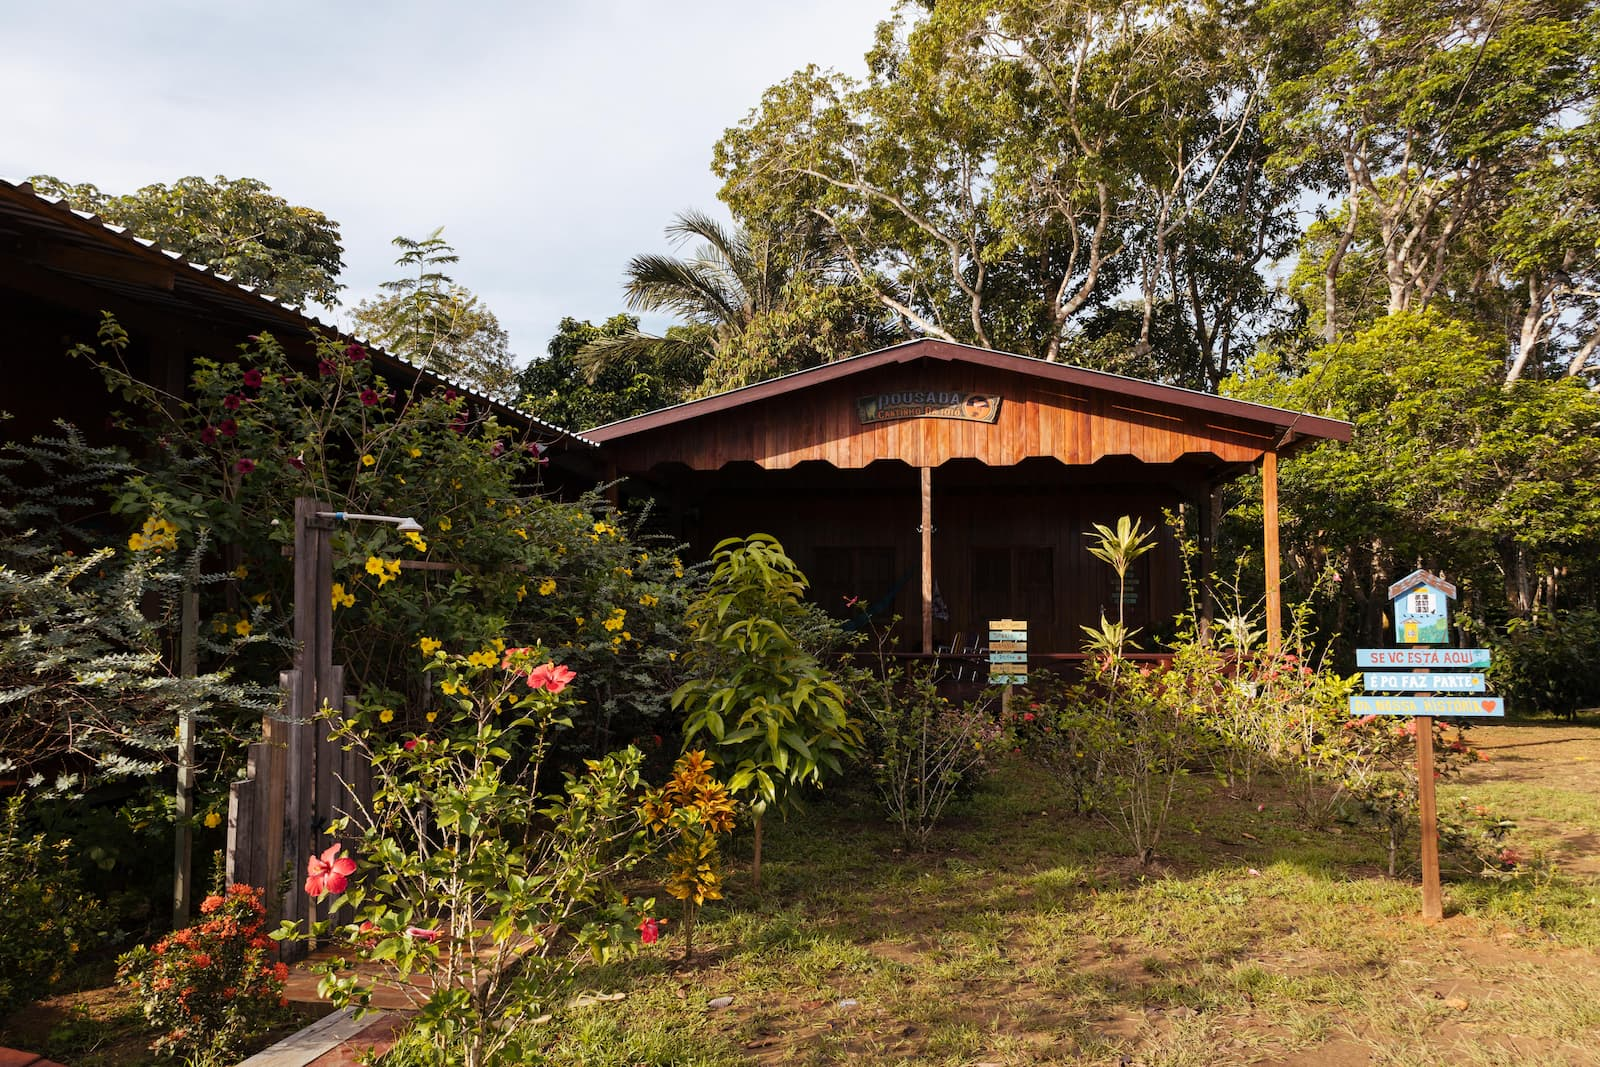
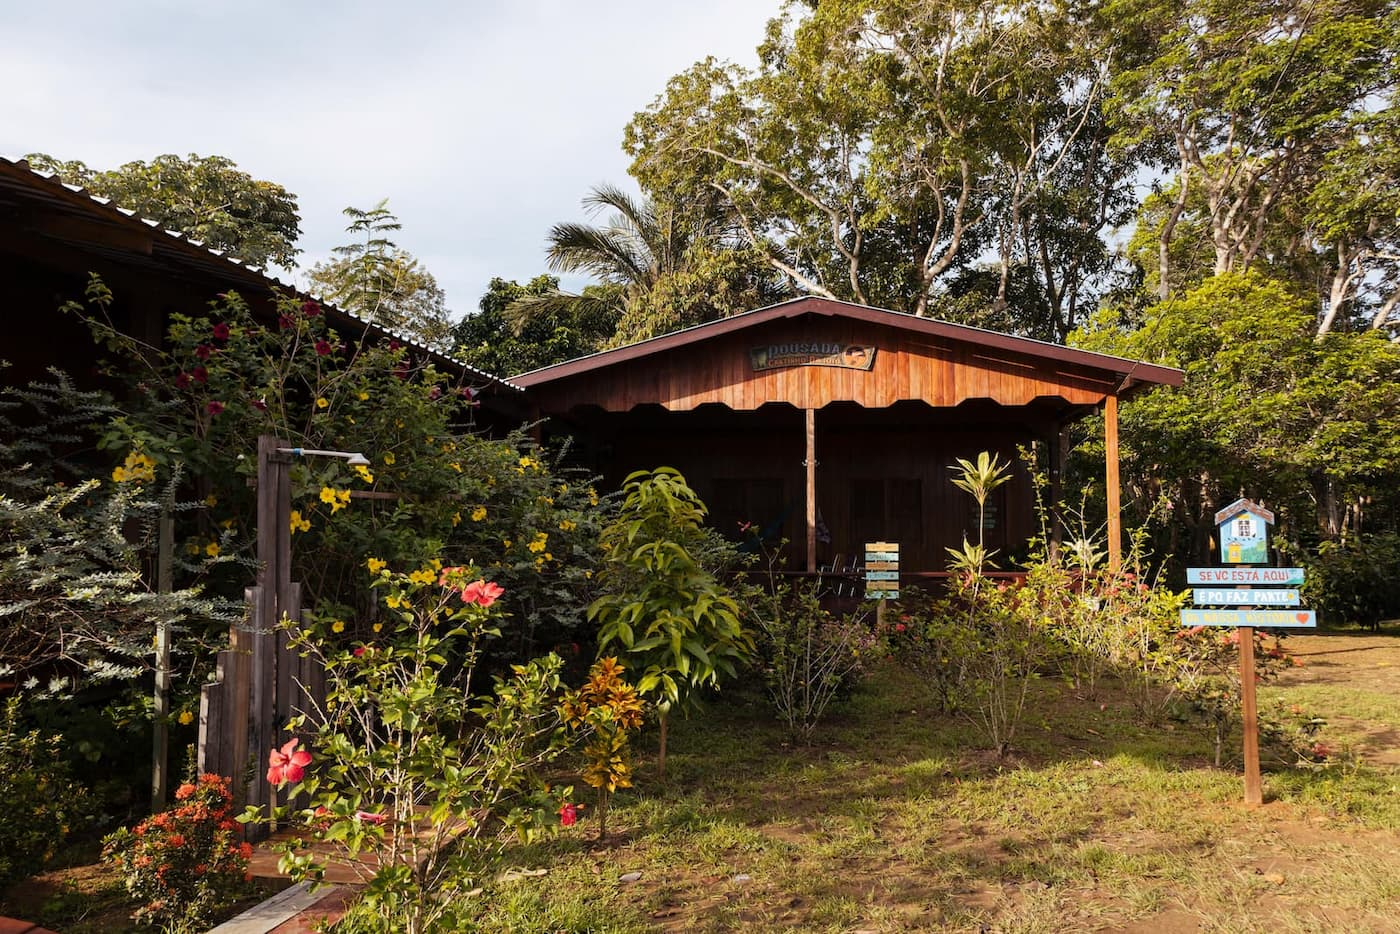
Adicionando página 404, meta tags (canonical e Open Graph) e imagem de prévia

diff --git a/404.html b/404.html
@@ -1,0 +1,122 @@
+<!DOCTYPE html>
+<html lang="pt-BR">
+<head>
+  <meta charset="UTF-8">
+  <meta name="viewport" content="width=device-width, initial-scale=1.0">
+  <title>Página não encontrada | Pousada Cantinho da Ioiô</title>
+  <meta name="robots" content="noindex">
+  <link rel="preconnect" href="https://fonts.googleapis.com">
+  <link href="https://fonts.googleapis.com/css2?family=Fraunces:wght@500;600&family=Inter:wght@400;500;600&display=swap" rel="stylesheet">
+  <link rel="icon" type="image/png" href="/assets/icone/icone.png">
+  <link rel="stylesheet" href="/css/base.css">
+  <link rel="stylesheet" href="/css/header.css">
+  <link rel="stylesheet" href="/css/paginas.css">
+  <link rel="stylesheet" href="/css/footer.css">
+</head>
+<body>
+
+  <header class="header">
+    <div class="container header__inner">
+      <a href="index.html" class="header__logo">
+        <img class="header__logo-mark" src="assets/icone/icone.png" alt="Logo Pousada Cantinho da Ioiô">
+        Cantinho da Ioiô
+      </a>
+
+      <nav class="header__nav">
+        <ul class="header__links">
+          <li><a href="index.html">Home</a></li>
+          <li><a href="acomodacoes.html">Acomodações</a></li>
+          <li><a href="passeios.html">Passeios</a></li>
+          <li><a href="localizacao.html">Localização</a></li>
+          <li><a href="sobre.html">Sobre</a></li>
+        </ul>
+        <a href="reserva.html" class="header__cta">Reservar agora</a>
+      </nav>
+
+      <button class="header__burger" aria-label="Abrir menu">
+        <span></span><span></span><span></span>
+      </button>
+    </div>
+  </header>
+
+  <!-- Painel mobile -->
+  <nav class="header__mobile-panel">
+    <a href="index.html">Home</a>
+    <a href="acomodacoes.html">Acomodações</a>
+    <a href="passeios.html">Passeios</a>
+    <a href="localizacao.html">Localização</a>
+    <a href="sobre.html">Sobre</a>
+    <a href="reserva.html" class="header__cta">Reservar agora</a>
+  </nav>
+
+  <section class="pagina-banner">
+    <div class="container">
+      <p class="pagina-banner__eyebrow">Erro 404</p>
+      <h1 class="pagina-banner__titulo">Essa página não existe</h1>
+      <p class="pagina-banner__subtitulo">O endereço pode ter sido digitado errado ou a página foi movida. Volte ao início ou veja nossas acomodações.</p>
+      <p style="margin-top: 24px; display: flex; gap: 12px; flex-wrap: wrap;">
+        <a href="/" class="btn btn--primario">Ir para o início</a>
+        <a href="/acomodacoes" class="cta-final__link">Ver acomodações</a>
+      </p>
+    </div>
+  </section>
+
+  <footer class="footer">
+    <div class="container">
+      <div class="footer__grade">
+
+        <div>
+          <a href="index.html" class="footer__marca">
+            <span class="footer__marca-mark">CI</span>
+            Cantinho da Ioiô
+          </a>
+          <p class="footer__texto">Uma pousada acolhedora na comunidade Saracá, às margens do Rio Negro, no coração da Amazônia.</p>
+          <div class="footer__redes">
+            <a href="https://www.instagram.com/pousadacantinhodaioio" class="footer__rede" target="_blank" rel="noopener" aria-label="Instagram da pousada">
+              <svg viewBox="0 0 24 24" fill="none" stroke="currentColor" stroke-width="2" stroke-linecap="round" stroke-linejoin="round"><rect x="2" y="2" width="20" height="20" rx="5"/><path d="M16 11.37A4 4 0 1 1 12.63 8 4 4 0 0 1 16 11.37z"/><line x1="17.5" y1="6.5" x2="17.51" y2="6.5"/></svg>
+            </a>
+            <a href="https://wa.me/5592981310470" class="footer__rede" target="_blank" rel="noopener" aria-label="WhatsApp da pousada">
+              <svg viewBox="0 0 24 24" fill="none" stroke="currentColor" stroke-width="2" stroke-linecap="round" stroke-linejoin="round"><path d="M21 11.5a8.38 8.38 0 0 1-.9 3.8 8.5 8.5 0 0 1-7.6 4.7 8.38 8.38 0 0 1-3.8-.9L3 21l1.9-5.7a8.38 8.38 0 0 1-.9-3.8 8.5 8.5 0 0 1 4.7-7.6 8.38 8.38 0 0 1 3.8-.9h.5a8.48 8.48 0 0 1 8 8v.5z"/></svg>
+            </a>
+          </div>
+        </div>
+
+        <div>
+          <p class="footer__coluna-titulo">Navegação</p>
+          <ul class="footer__links">
+            <li><a href="index.html">Home</a></li>
+            <li><a href="acomodacoes.html">Acomodações</a></li>
+          <li><a href="passeios.html">Passeios</a></li>
+            <li><a href="localizacao.html">Localização</a></li>
+            <li><a href="sobre.html">Sobre</a></li>
+          </ul>
+        </div>
+
+        <div>
+          <p class="footer__coluna-titulo">Contato</p>
+          <div style="display:flex; flex-direction:column; gap:14px;">
+            <div class="footer__contato-item">
+              <svg viewBox="0 0 24 24" fill="none" stroke="currentColor" stroke-width="2" stroke-linecap="round" stroke-linejoin="round"><path d="M20.42 4.58a5.4 5.4 0 0 0-7.65 0l-.77.78-.77-.78a5.4 5.4 0 0 0-7.65 0C1.46 6.7 1.33 10.28 4 13l8 8 8-8c2.67-2.72 2.54-6.3.42-8.42z"/></svg>
+              <span>Comunidade Saracá, Rio Negro — Amazonas</span>
+            </div>
+            <div class="footer__contato-item">
+              <svg viewBox="0 0 24 24" fill="none" stroke="currentColor" stroke-width="2" stroke-linecap="round" stroke-linejoin="round"><path d="M21 11.5a8.38 8.38 0 0 1-.9 3.8 8.5 8.5 0 0 1-7.6 4.7 8.38 8.38 0 0 1-3.8-.9L3 21l1.9-5.7a8.38 8.38 0 0 1-.9-3.8 8.5 8.5 0 0 1 4.7-7.6 8.38 8.38 0 0 1 3.8-.9h.5a8.48 8.48 0 0 1 8 8v.5z"/></svg>
+              <a href="https://wa.me/5592981310470" target="_blank" rel="noopener">(92) 98131-0470</a>
+            </div>
+          </div>
+        </div>
+
+      </div>
+
+      <div class="footer__base">
+        <span>© 2026 Pousada Cantinho da Ioiô. Todos os direitos reservados.</span>
+        <span>Feito com carinho às margens do Rio Negro</span>
+      </div>
+    </div>
+  </footer>
+
+  <script src="/js/header.js"></script>
+  <script src="/js/whatsapp-flutuante.js" defer></script>
+  <script src="/js/instagram-flutuante.js" defer></script>
+</body>
+</html>

diff --git a/index.html b/index.html
@@ -5,6 +5,17 @@
   <meta name="viewport" content="width=device-width, initial-scale=1.0">
   <title>Pousada Cantinho da Ioiô | Hospedagem na Amazônia</title>
   <meta name="description" content="Pousada acolhedora na comunidade Saracá, às margens do Rio Negro. Quartos confortáveis, natureza, passeios de canoa e a autêntica experiência amazônica.">
+  <link rel="canonical" href="https://pousadacantinhodaioio.com.br/">
+  <meta property="og:type" content="website">
+  <meta property="og:locale" content="pt_BR">
+  <meta property="og:site_name" content="Pousada Cantinho da Ioiô">
+  <meta property="og:url" content="https://pousadacantinhodaioio.com.br/">
+  <meta property="og:title" content="Pousada Cantinho da Ioiô | Hospedagem na Amazônia">
+  <meta property="og:description" content="Pousada acolhedora na comunidade Saracá, às margens do Rio Negro. Quartos confortáveis, natureza, passeios de canoa e a autêntica experiência amazônica.">
+  <meta property="og:image" content="https://pousadacantinhodaioio.com.br/assets/pousada/pousada5.jpg">
+  <meta property="og:image:alt" content="Pousada Cantinho da Ioiô, na comunidade Saracá, às margens do Rio Negro">
+  <meta name="twitter:card" content="summary_large_image">
+  <meta name="theme-color" content="#1B3A5C">
   <link rel="preconnect" href="https://fonts.googleapis.com">
   <link href="https://fonts.googleapis.com/css2?family=Fraunces:wght@500;600&family=Inter:wght@400;500;600&display=swap" rel="stylesheet">
   <link rel="icon" type="image/png" href="assets/icone/icone.png">
@@ -297,7 +308,7 @@
           <div style="display:flex; flex-direction:column; gap:14px;">
             <div class="footer__contato-item">
               <svg viewBox="0 0 24 24" fill="none" stroke="currentColor" stroke-width="2" stroke-linecap="round" stroke-linejoin="round"><path d="M20.42 4.58a5.4 5.4 0 0 0-7.65 0l-.77.78-.77-.78a5.4 5.4 0 0 0-7.65 0C1.46 6.7 1.33 10.28 4 13l8 8 8-8c2.67-2.72 2.54-6.3.42-8.42z"/></svg>
-              <span>Comunidade Saracá, Iranduba — Amazonas</span>
+              <span>Comunidade Saracá, Rio Negro — Amazonas</span>
             </div>
             <div class="footer__contato-item">
               <svg viewBox="0 0 24 24" fill="none" stroke="currentColor" stroke-width="2" stroke-linecap="round" stroke-linejoin="round"><path d="M21 11.5a8.38 8.38 0 0 1-.9 3.8 8.5 8.5 0 0 1-7.6 4.7 8.38 8.38 0 0 1-3.8-.9L3 21l1.9-5.7a8.38 8.38 0 0 1-.9-3.8 8.5 8.5 0 0 1 4.7-7.6 8.38 8.38 0 0 1 3.8-.9h.5a8.48 8.48 0 0 1 8 8v.5z"/></svg>

diff --git a/passeios.html b/passeios.html
@@ -5,6 +5,17 @@
   <meta name="viewport" content="width=device-width, initial-scale=1.0">
   <title>Passeios e Experiências | Pousada Cantinho da Ioiô</title>
   <meta name="description" content="Passeios na Amazônia saindo da Pousada Cantinho da Ioiô: pesca, trilha noturna, interação com botos, Parque Nacional de Anavilhanas e muito mais. Veja os valores.">
+  <link rel="canonical" href="https://pousadacantinhodaioio.com.br/passeios">
+  <meta property="og:type" content="website">
+  <meta property="og:locale" content="pt_BR">
+  <meta property="og:site_name" content="Pousada Cantinho da Ioiô">
+  <meta property="og:url" content="https://pousadacantinhodaioio.com.br/passeios">
+  <meta property="og:title" content="Passeios e Experiências | Pousada Cantinho da Ioiô">
+  <meta property="og:description" content="Passeios na Amazônia saindo da Pousada Cantinho da Ioiô: pesca, trilha noturna, interação com botos, Parque Nacional de Anavilhanas e muito mais. Veja os valores.">
+  <meta property="og:image" content="https://pousadacantinhodaioio.com.br/assets/pousada/pousada5.jpg">
+  <meta property="og:image:alt" content="Pousada Cantinho da Ioiô, na comunidade Saracá, às margens do Rio Negro">
+  <meta name="twitter:card" content="summary_large_image">
+  <meta name="theme-color" content="#1B3A5C">
   <link rel="preconnect" href="https://fonts.googleapis.com">
   <link href="https://fonts.googleapis.com/css2?family=Fraunces:wght@500;600&family=Inter:wght@400;500;600&display=swap" rel="stylesheet">
   <link rel="icon" type="image/png" href="assets/icone/icone.png">

diff --git a/acomodacoes.html b/acomodacoes.html
@@ -5,6 +5,17 @@
   <meta name="viewport" content="width=device-width, initial-scale=1.0">
   <title>Acomodações | Pousada Cantinho da Ioiô</title>
   <meta name="description" content="Conheça os quartos da Pousada Cantinho da Ioiô: 3 quartos triplos e 1 quádruplo, todos com ar-condicionado, banheiro privativo e varanda. Veja os valores de hospedagem.">
+  <link rel="canonical" href="https://pousadacantinhodaioio.com.br/acomodacoes">
+  <meta property="og:type" content="website">
+  <meta property="og:locale" content="pt_BR">
+  <meta property="og:site_name" content="Pousada Cantinho da Ioiô">
+  <meta property="og:url" content="https://pousadacantinhodaioio.com.br/acomodacoes">
+  <meta property="og:title" content="Acomodações | Pousada Cantinho da Ioiô">
+  <meta property="og:description" content="Conheça os quartos da Pousada Cantinho da Ioiô: 3 quartos triplos e 1 quádruplo, todos com ar-condicionado, banheiro privativo e varanda. Veja os valores de hospedagem.">
+  <meta property="og:image" content="https://pousadacantinhodaioio.com.br/assets/pousada/pousada5.jpg">
+  <meta property="og:image:alt" content="Pousada Cantinho da Ioiô, na comunidade Saracá, às margens do Rio Negro">
+  <meta name="twitter:card" content="summary_large_image">
+  <meta name="theme-color" content="#1B3A5C">
   <link rel="preconnect" href="https://fonts.googleapis.com">
   <link href="https://fonts.googleapis.com/css2?family=Fraunces:wght@500;600&family=Inter:wght@400;500;600&display=swap" rel="stylesheet">
   <link rel="icon" type="image/png" href="assets/icone/icone.png">

diff --git a/localizacao.html b/localizacao.html
@@ -5,6 +5,17 @@
   <meta name="viewport" content="width=device-width, initial-scale=1.0">
   <title>Localização | Pousada Cantinho da Ioiô</title>
   <meta name="description" content="Como chegar à Pousada Cantinho da Ioiô, na comunidade Saracá, às margens do Rio Negro, Amazonas. Endereço, mapa e distâncias dos principais pontos.">
+  <link rel="canonical" href="https://pousadacantinhodaioio.com.br/localizacao">
+  <meta property="og:type" content="website">
+  <meta property="og:locale" content="pt_BR">
+  <meta property="og:site_name" content="Pousada Cantinho da Ioiô">
+  <meta property="og:url" content="https://pousadacantinhodaioio.com.br/localizacao">
+  <meta property="og:title" content="Localização | Pousada Cantinho da Ioiô">
+  <meta property="og:description" content="Como chegar à Pousada Cantinho da Ioiô, na comunidade Saracá, às margens do Rio Negro, Amazonas. Endereço, mapa e distâncias dos principais pontos.">
+  <meta property="og:image" content="https://pousadacantinhodaioio.com.br/assets/pousada/pousada5.jpg">
+  <meta property="og:image:alt" content="Pousada Cantinho da Ioiô, na comunidade Saracá, às margens do Rio Negro">
+  <meta name="twitter:card" content="summary_large_image">
+  <meta name="theme-color" content="#1B3A5C">
   <link rel="preconnect" href="https://fonts.googleapis.com">
   <link href="https://fonts.googleapis.com/css2?family=Fraunces:wght@500;600&family=Inter:wght@400;500;600&display=swap" rel="stylesheet">
   <link rel="icon" type="image/png" href="assets/icone/icone.png">

diff --git a/reserva.html b/reserva.html
@@ -5,6 +5,17 @@
   <meta name="viewport" content="width=device-width, initial-scale=1.0">
   <title>Reserva | Pousada Cantinho da Ioiô</title>
   <meta name="description" content="Reserve sua estadia na Pousada Cantinho da Ioiô: escolha as datas, o quarto e os passeios. Bem-te-vi, Beija-flor, Tucano e Japiim.">
+  <link rel="canonical" href="https://pousadacantinhodaioio.com.br/reserva">
+  <meta property="og:type" content="website">
+  <meta property="og:locale" content="pt_BR">
+  <meta property="og:site_name" content="Pousada Cantinho da Ioiô">
+  <meta property="og:url" content="https://pousadacantinhodaioio.com.br/reserva">
+  <meta property="og:title" content="Reserva | Pousada Cantinho da Ioiô">
+  <meta property="og:description" content="Reserve sua estadia na Pousada Cantinho da Ioiô: escolha as datas, o quarto e os passeios. Bem-te-vi, Beija-flor, Tucano e Japiim.">
+  <meta property="og:image" content="https://pousadacantinhodaioio.com.br/assets/pousada/pousada5.jpg">
+  <meta property="og:image:alt" content="Pousada Cantinho da Ioiô, na comunidade Saracá, às margens do Rio Negro">
+  <meta name="twitter:card" content="summary_large_image">
+  <meta name="theme-color" content="#1B3A5C">
   <link rel="preconnect" href="https://fonts.googleapis.com">
   <link href="https://fonts.googleapis.com/css2?family=Fraunces:wght@500;600&family=Inter:wght@400;500;600&display=swap" rel="stylesheet">
   <link rel="icon" type="image/png" href="assets/icone/icone.png">

diff --git a/sobre.html b/sobre.html
@@ -5,6 +5,17 @@
   <meta name="viewport" content="width=device-width, initial-scale=1.0">
   <title>Sobre | Pousada Cantinho da Ioiô</title>
   <meta name="description" content="Conheça a história da Pousada Cantinho da Ioiô, uma hospedagem familiar na comunidade Saracá, às margens do Rio Negro, Amazonas.">
+  <link rel="canonical" href="https://pousadacantinhodaioio.com.br/sobre">
+  <meta property="og:type" content="website">
+  <meta property="og:locale" content="pt_BR">
+  <meta property="og:site_name" content="Pousada Cantinho da Ioiô">
+  <meta property="og:url" content="https://pousadacantinhodaioio.com.br/sobre">
+  <meta property="og:title" content="Sobre | Pousada Cantinho da Ioiô">
+  <meta property="og:description" content="Conheça a história da Pousada Cantinho da Ioiô, uma hospedagem familiar na comunidade Saracá, às margens do Rio Negro, Amazonas.">
+  <meta property="og:image" content="https://pousadacantinhodaioio.com.br/assets/pousada/pousada5.jpg">
+  <meta property="og:image:alt" content="Pousada Cantinho da Ioiô, na comunidade Saracá, às margens do Rio Negro">
+  <meta name="twitter:card" content="summary_large_image">
+  <meta name="theme-color" content="#1B3A5C">
   <link rel="preconnect" href="https://fonts.googleapis.com">
   <link href="https://fonts.googleapis.com/css2?family=Fraunces:wght@500;600&family=Inter:wght@400;500;600&display=swap" rel="stylesheet">
   <link rel="icon" type="image/png" href="assets/icone/icone.png">
